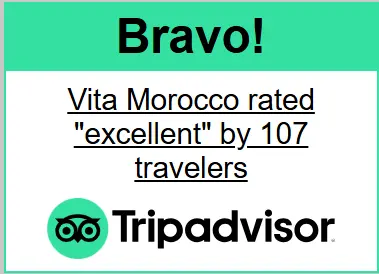
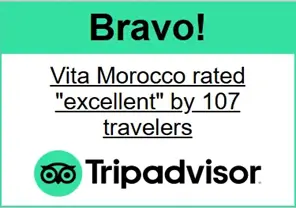
modify some typography to p

diff --git a/src/pages/Activities/Activity.tsx b/src/pages/Activities/Activity.tsx
@@ -2,7 +2,6 @@ import CloseIcon from '@mui/icons-material/Close';
 import DoneIcon from '@mui/icons-material/Done';
 import CircularProgress from '@mui/material/CircularProgress';
 import Container from '@mui/material/Container';
-import Typography from '@mui/material/Typography';
 import parse from 'html-react-parser';
 import { useTranslation } from 'react-i18next';
 import { useQuery } from 'react-query';
@@ -68,9 +67,9 @@ export const Activity = (): JSX.Element => {
                     <ActivityDetails activity={activity} />
                     <PanedSection
                         title={
-                            <Typography variant="h5" className="setcion-title left-title">
+                            <h5 className="setcion-title left-title">
                                 {t('schedule')}
-                            </Typography>
+                            </h5>
                         }
                         leftPane={{
                             element: <p>{parse(activity.schedule)}</p>,
@@ -80,9 +79,9 @@ export const Activity = (): JSX.Element => {
                     <Pricing pricing={activity.pricing} />
                     <PanedSection
                         title={
-                            <Typography variant="h5" className="setcion-title left-title">
+                            <h5 className="setcion-title left-title">
                                 {t('whats_included')}
-                            </Typography>
+                            </h5>
                         }
                         leftPane={{
                             element: (
@@ -102,9 +101,9 @@ export const Activity = (): JSX.Element => {
                     />
                     <PanedSection
                         title={
-                            <Typography variant="h5" className="setcion-title left-title">
+                            <h5 className="setcion-title left-title">
                                 {t('whats_not_included')}
-                            </Typography>
+                            </h5>
                         }
                         leftPane={{
                             element: (
@@ -124,9 +123,9 @@ export const Activity = (): JSX.Element => {
                     />
                     <PanedSection
                         title={
-                            <Typography variant="h5" className="setcion-title left-title">
+                            <h5 className="setcion-title left-title">
                                 {t('good_to_know')}
-                            </Typography>
+                            </h5>
                         }
                         leftPane={{
                             element: (

diff --git a/src/pages/Excursions/components/excursion-services/IncludedServices.tsx b/src/pages/Excursions/components/excursion-services/IncludedServices.tsx
@@ -1,8 +1,9 @@
-import Grid from '@mui/material/Grid';
+import Grid from '@mui/material/Grid2';
 import Paper from '@mui/material/Paper';
 import Typography from '@mui/material/Typography';
 import { useTranslation } from 'react-i18next';
 import { INCLUDED_SERVICES } from '../../constant';
+
 import './ExcursionService.scss';
 
 interface IncludedServicesProps {
@@ -26,18 +27,14 @@ export const IncludedServiceList = ({ services }: IncludedServicesProps) => {
 };
 
 export const IncludedServiceCard = ({ services }: IncludedServicesProps) => {
-    const { t } = useTranslation(); // Initialize the translation hook
+    const { t } = useTranslation();
 
     return (
         <div className="included-services-card">
             <Grid container spacing={2} justifyContent="center" className="included-services-container">
                 {INCLUDED_SERVICES.filter((s) => services.includes(s.name)).map((service) => (
                     <Grid
-                        item
                         key={service.name}
-                        xs={12}
-                        sm={6}
-                        md={1}
                         className="included-item"
                         component={Paper}
                         elevation={3}

diff --git a/src/pages/Excursions/components/excursion-services/ExcludedServices.tsx b/src/pages/Excursions/components/excursion-services/ExcludedServices.tsx
@@ -1,6 +1,5 @@
 import { useTranslation } from 'react-i18next';
 import { EXCLUDED_SERVICES } from '../../constant';
-import Typography from '@mui/material/Typography';
 import CloseIcon from '@mui/icons-material/Close';
 import PanedSection from '../../../../common/components/panes/SectionedPanes';
 
@@ -10,9 +9,7 @@ export const ExcludedServiceList = () => {
     return (
         <PanedSection
             title={
-                <Typography variant="h5" className="setcion-title left-title">
-                    {t('whats_not_included')}
-                </Typography>
+                <h5 className="setcion-title left-title">{t('whats_not_included')}</h5>
             }
             leftPane={{
                 element: <div className="excluded-services-list">
@@ -20,7 +17,7 @@ export const ExcludedServiceList = () => {
                         {EXCLUDED_SERVICES.map((service) => (
                             <li key={service}>
                                 <CloseIcon color="error" />
-                                <div>{t(`excluded_services.${service}`)}</div>
+                                <p>{t(`excluded_services.${service}`)}</p>
                             </li>
                         ))}
                     </ul>

diff --git a/src/pages/Tours/Tours.tsx b/src/pages/Tours/Tours.tsx
@@ -11,7 +11,6 @@ import parse from 'html-react-parser';
 
 import '../Excursions/Excursions.scss';
 
-const ToursText = 'Tours & Itineraries';
 
 export const Tours = (): JSX.Element => {
     const location = useLocation();
@@ -23,14 +22,13 @@ export const Tours = (): JSX.Element => {
 
     // we can select an aleatoire index...
     const departureFromCityTitle = origin ? `${t('from')} ${tours?.[0].departureCity}` : ""
-    // const departureFromCityImg = origin ? `${tours?.[0].id}/${tours?.[0].titleImg}` : "tours_title.webp"
+    const departureFromCityImg = origin ? `${tours?.[0].id}/${tours?.[0].titleImg}` : "tours_title.webp"
 
     return (
         <Page
             description={t('tours_description')}
             title={`${t('tours_and_itineraries')} ${departureFromCityTitle}`}
-            // imgSrc={`/img/tours/${departureFromCityImg}`}
-            imgSrc={`/img/tours/tours_title.webp`}
+            imgSrc={`/img/tours/${departureFromCityImg}`}
             className="excursions-page-container"
         >
             {isLoading ? (

diff --git a/src/pages/Excursions/Excursion.tsx b/src/pages/Excursions/Excursion.tsx
@@ -1,6 +1,5 @@
 import CircularProgress from '@mui/material/CircularProgress';
 import Container from '@mui/material/Container';
-import Typography from '@mui/material/Typography';
 import { useTranslation } from 'react-i18next';
 import { useQuery } from 'react-query';
 import { useParams } from 'react-router-dom';
@@ -70,9 +69,9 @@ export const Excursion = (): JSX.Element => {
                         <Pricing pricing={excursion.pricing} />
                         <PanedSection
                             title={
-                                <Typography variant="h5" className="setcion-title left-title">
+                                <h5 className="setcion-title left-title">
                                     {t('whats_included')}
-                                </Typography>
+                                </h5>
                             }
                             leftPane={{
                                 element: <IncludedServiceCard services={excursion.includedServices ?? []} />,

diff --git a/src/pages/Excursions/components/PanedDescription.tsx b/src/pages/Excursions/components/PanedDescription.tsx
@@ -1,4 +1,3 @@
-import Typography from '@mui/material/Typography';
 import { useTranslation } from 'react-i18next';
 import PanedSection from '../../../common/components/panes/SectionedPanes';
 import { defaultImage } from '../../../common/utils/imageUtils';
@@ -14,15 +13,15 @@ export const PanedDescription = ({ description, imgSrc }: PanedDescriptionInterf
     return (
         <PanedSection
             title={
-                <Typography variant="h5" className="setcion-title left-title">
+                <h5 className="setcion-title left-title">
                     {t('description')}
-                </Typography>
+                </h5>
             }
             leftPane={{
                 element: (
-                    <Typography variant="body1" className="description-text">
+                    <p>
                         {parse(description)}
-                    </Typography>
+                    </p>
                 ),
                 className: 'content-pane',
             }}

diff --git a/src/pages/Tours/Tour.tsx b/src/pages/Tours/Tour.tsx
@@ -1,7 +1,6 @@
 import DoneIcon from '@mui/icons-material/Done';
 import CircularProgress from '@mui/material/CircularProgress';
 import Container from '@mui/material/Container';
-import Typography from '@mui/material/Typography';
 import { useTranslation } from 'react-i18next';
 import { useQuery } from 'react-query';
 import { useParams } from 'react-router-dom';
@@ -70,9 +69,9 @@ export const Tour = (): JSX.Element => {
                     <TourPricing />
                     <PanedSection
                         title={
-                            <Typography variant="h5" className="setcion-title left-title">
+                            <h5 className="setcion-title left-title">
                                 {t('whats_included')}
-                            </Typography>
+                            </h5>
                         }
                         // leftPane={{
                         //     element: <IncludedServiceCard services={tour.includedServices ?? []} />,

diff --git a/src/pages/Excursions/components/ExcursionDetails.tsx b/src/pages/Excursions/components/ExcursionDetails.tsx
@@ -6,7 +6,6 @@ import FlightTakeoffIcon from '@mui/icons-material/FlightTakeoff';
 import HailIcon from '@mui/icons-material/Hail';
 import HourglassTopIcon from '@mui/icons-material/HourglassTop';
 import ShutterSpeedIcon from '@mui/icons-material/ShutterSpeed';
-import Typography from '@mui/material/Typography';
 import { useTranslation } from 'react-i18next';
 import PanedSection from '../../../common/components/panes/SectionedPanes';
 import { Excursion } from '../../../common/types/excursion';
@@ -28,9 +27,9 @@ export const ExcursionDetails = ({ excursion, type = 'excursions' }: ExcursionDe
     return (
         <PanedSection
             title={
-                <Typography variant="h5" className="setcion-title left-title">
+                <h5 className="setcion-title left-title">
                     {t('trip_details')}
-                </Typography>
+                </h5>
             }
             leftPane={{
                 element: (

diff --git a/src/pages/Activities/components/ActivityDetails.tsx b/src/pages/Activities/components/ActivityDetails.tsx
@@ -4,7 +4,6 @@ import DoDisturbIcon from '@mui/icons-material/DoDisturb';
 import HailIcon from '@mui/icons-material/Hail';
 import HourglassTopIcon from '@mui/icons-material/HourglassTop';
 import ShutterSpeedIcon from '@mui/icons-material/ShutterSpeed';
-import Typography from '@mui/material/Typography';
 import { useTranslation } from 'react-i18next';
 import PanedSection from '../../../common/components/panes/SectionedPanes';
 import { Activity } from '../../../common/types/activity';
@@ -23,9 +22,9 @@ export const ActivityDetails = ({ activity }: ActivityDetailsInterface): JSX.Ele
     return (
         <PanedSection
             title={
-                <Typography variant="h5" className="setcion-title left-title">
+                <h5 className="setcion-title left-title">
                     {t('trip_details')}
-                </Typography>
+                </h5>
             }
             leftPane={{
                 element: (

diff --git a/src/common/components/Footer/FooterColumn.tsx b/src/common/components/Footer/FooterColumn.tsx
@@ -39,7 +39,11 @@ function FooterColumn({ navItem: { text, is_logo: isLogo = false, dropdown = [] 
                     :
                     <div style={{ display: 'flex', flexDirection: 'column', alignItems: 'center' }}>
                         <Logo />
-                        <a href="https://www.tripadvisor.com/Attraction_Review-g293734-d26194088-Reviews-Vita_Morocco-Marrakech_Marrakech_Safi.html" target='__blank'>
+                        <a
+                            href="https://www.tripadvisor.com/Attraction_Review-g293734-d26194088-Reviews-Vita_Morocco-Marrakech_Marrakech_Safi.html"
+                            target='__blank'
+                            style={{ marginTop: "15px" }}
+                        >
                             <img
                                 src="/img/trip_advisor_reviews/excellence_widget.webp"
                                 width={148}

diff --git a/src/pages/Tours/TourSteps.tsx b/src/pages/Tours/TourSteps.tsx
@@ -1,7 +1,6 @@
 import Accordion from "@mui/material/Accordion"
 import AccordionSummary from "@mui/material/AccordionSummary"
 import AccordionDetails from "@mui/material/AccordionDetails"
-import Typography from "@mui/material/Typography"
 import ExpandMoreIcon from '@mui/icons-material/ExpandMore';
 import PanedSection from "../../common/components/panes/SectionedPanes";
 import { useTranslation } from "react-i18next";
@@ -19,9 +18,9 @@ export const TourSteps = ({ steps = [] }: TourStepsProps) => {
     return (
         <PanedSection
             title={
-                <Typography variant="h5" className="setcion-title left-title">
+                <h5 className="setcion-title left-title">
                     {t('full_detailed_itinerary')}
-                </Typography>
+                </h5>
             }
             leftPane={{
                 element: (

diff --git a/src/pages/Excursions/components/PanedHighlights.tsx b/src/pages/Excursions/components/PanedHighlights.tsx
@@ -1,5 +1,4 @@
 import ArrowRightIcon from '@mui/icons-material/ArrowRight';
-import Typography from '@mui/material/Typography';
 import { useMemo } from 'react';
 import { useTranslation } from 'react-i18next';
 import PanedSection from '../../../common/components/panes/SectionedPanes';
@@ -27,9 +26,9 @@ export const PanedHighlights = ({ highlights, highlightsImgs }: PanedHighlightsI
     return (
         <PanedSection
             title={
-                <Typography variant="h5" className="setcion-title left-title">
+                <h5 className="setcion-title left-title">
                     {t('highlights')}
-                </Typography>
+                </h5>
             }
             leftPane={{
                 element: <HighLightsSwiper highlightsImgs={highlightsImgs} />,
